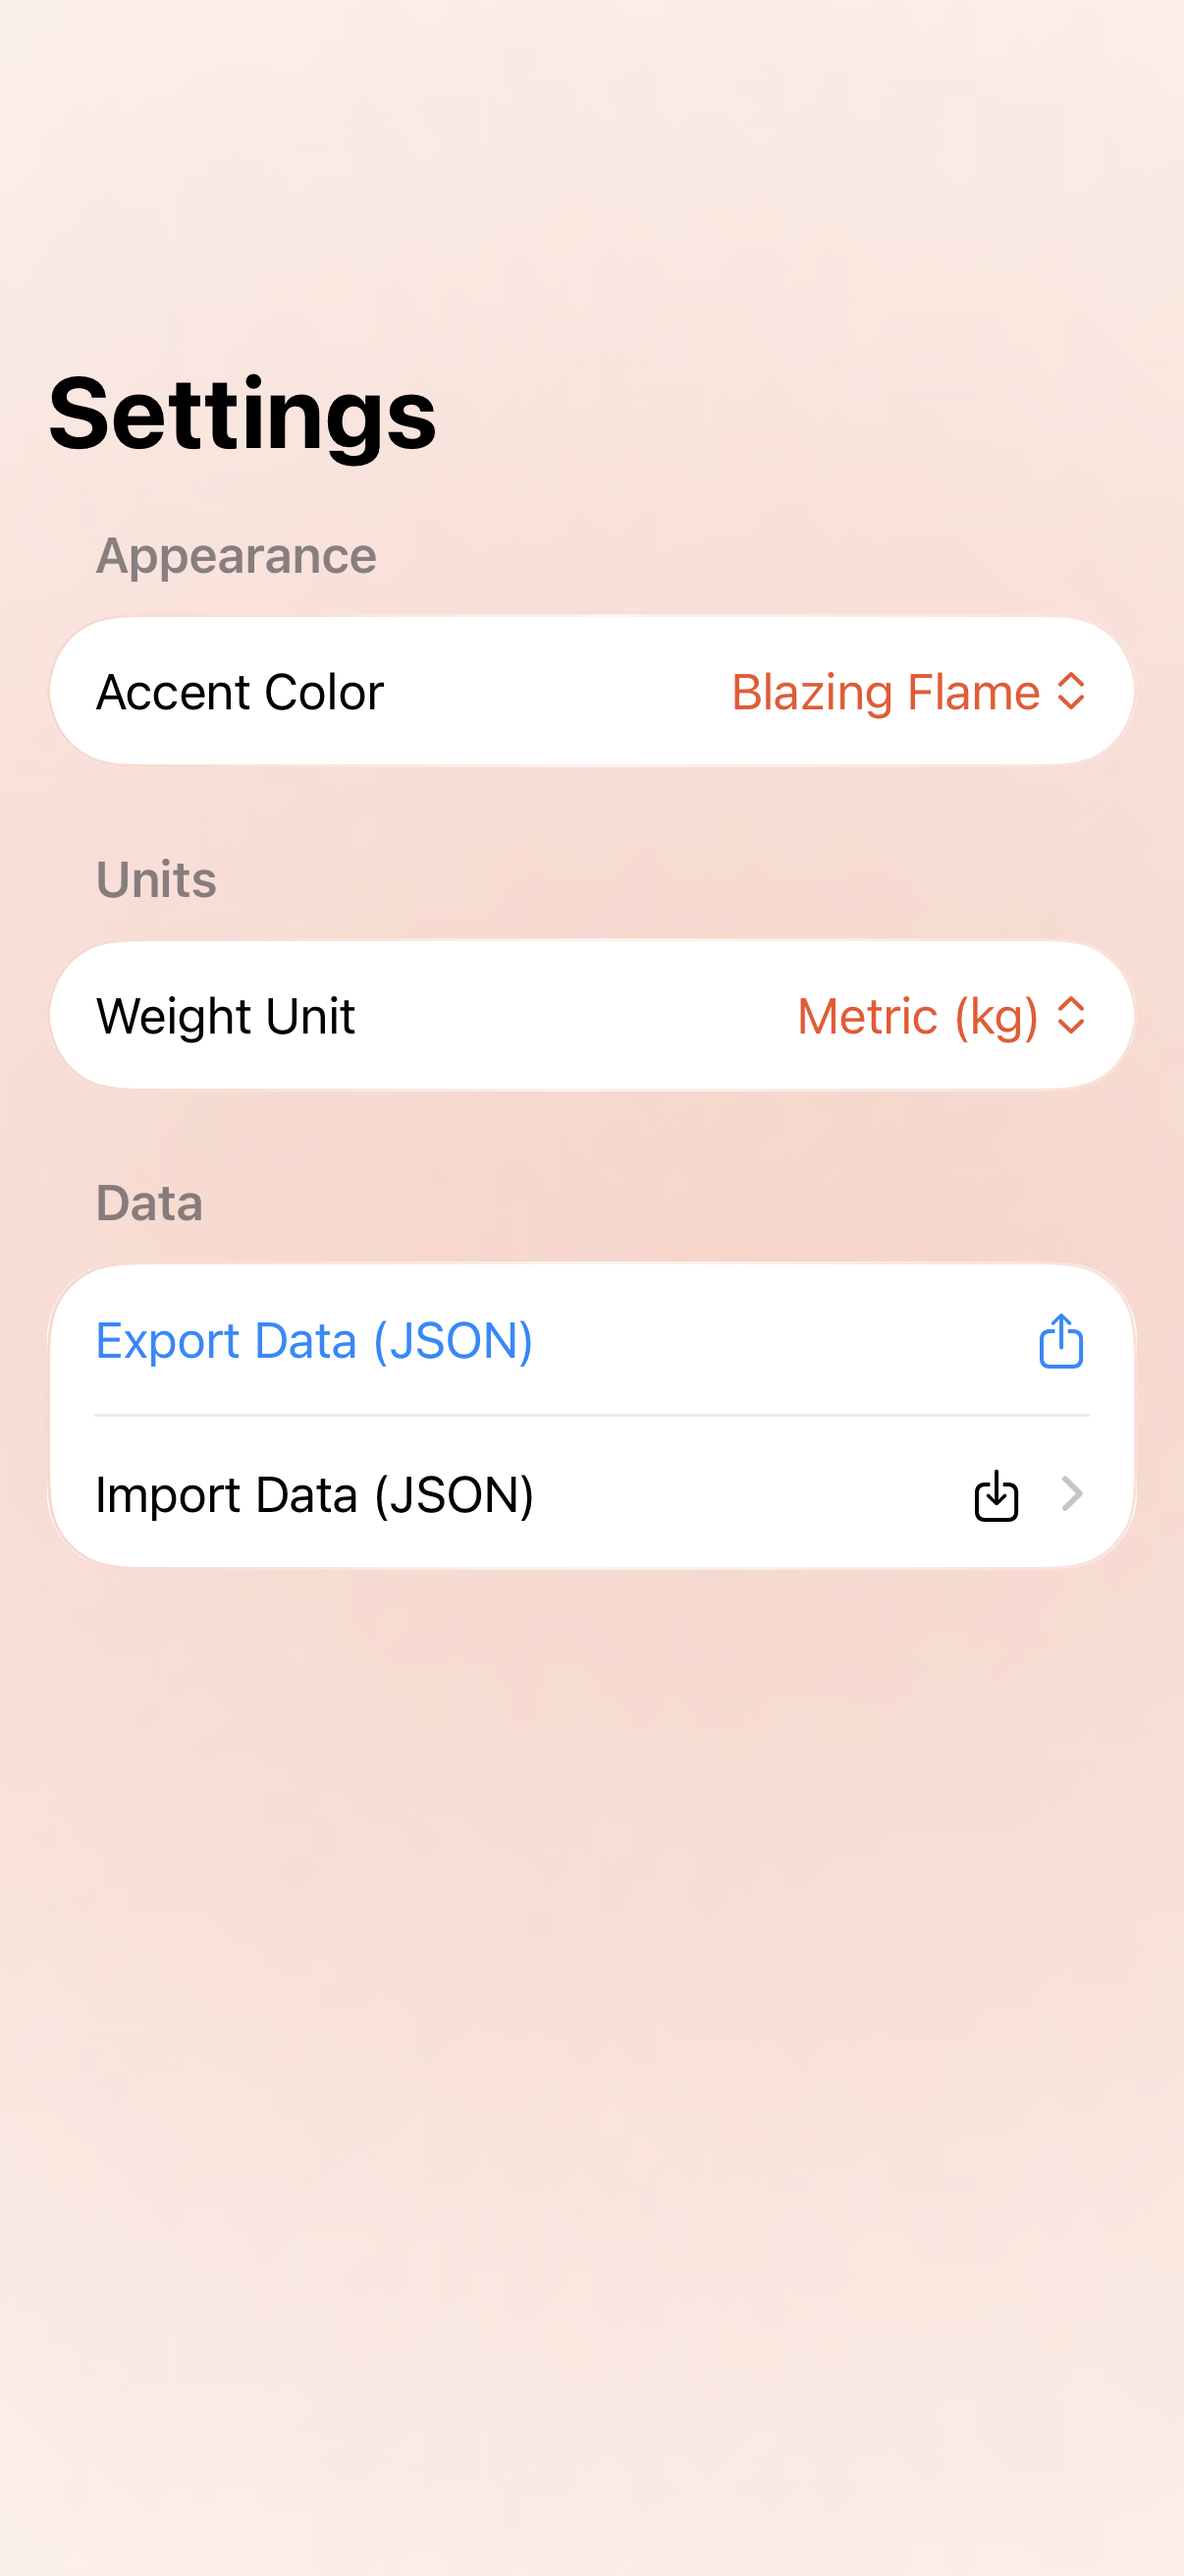
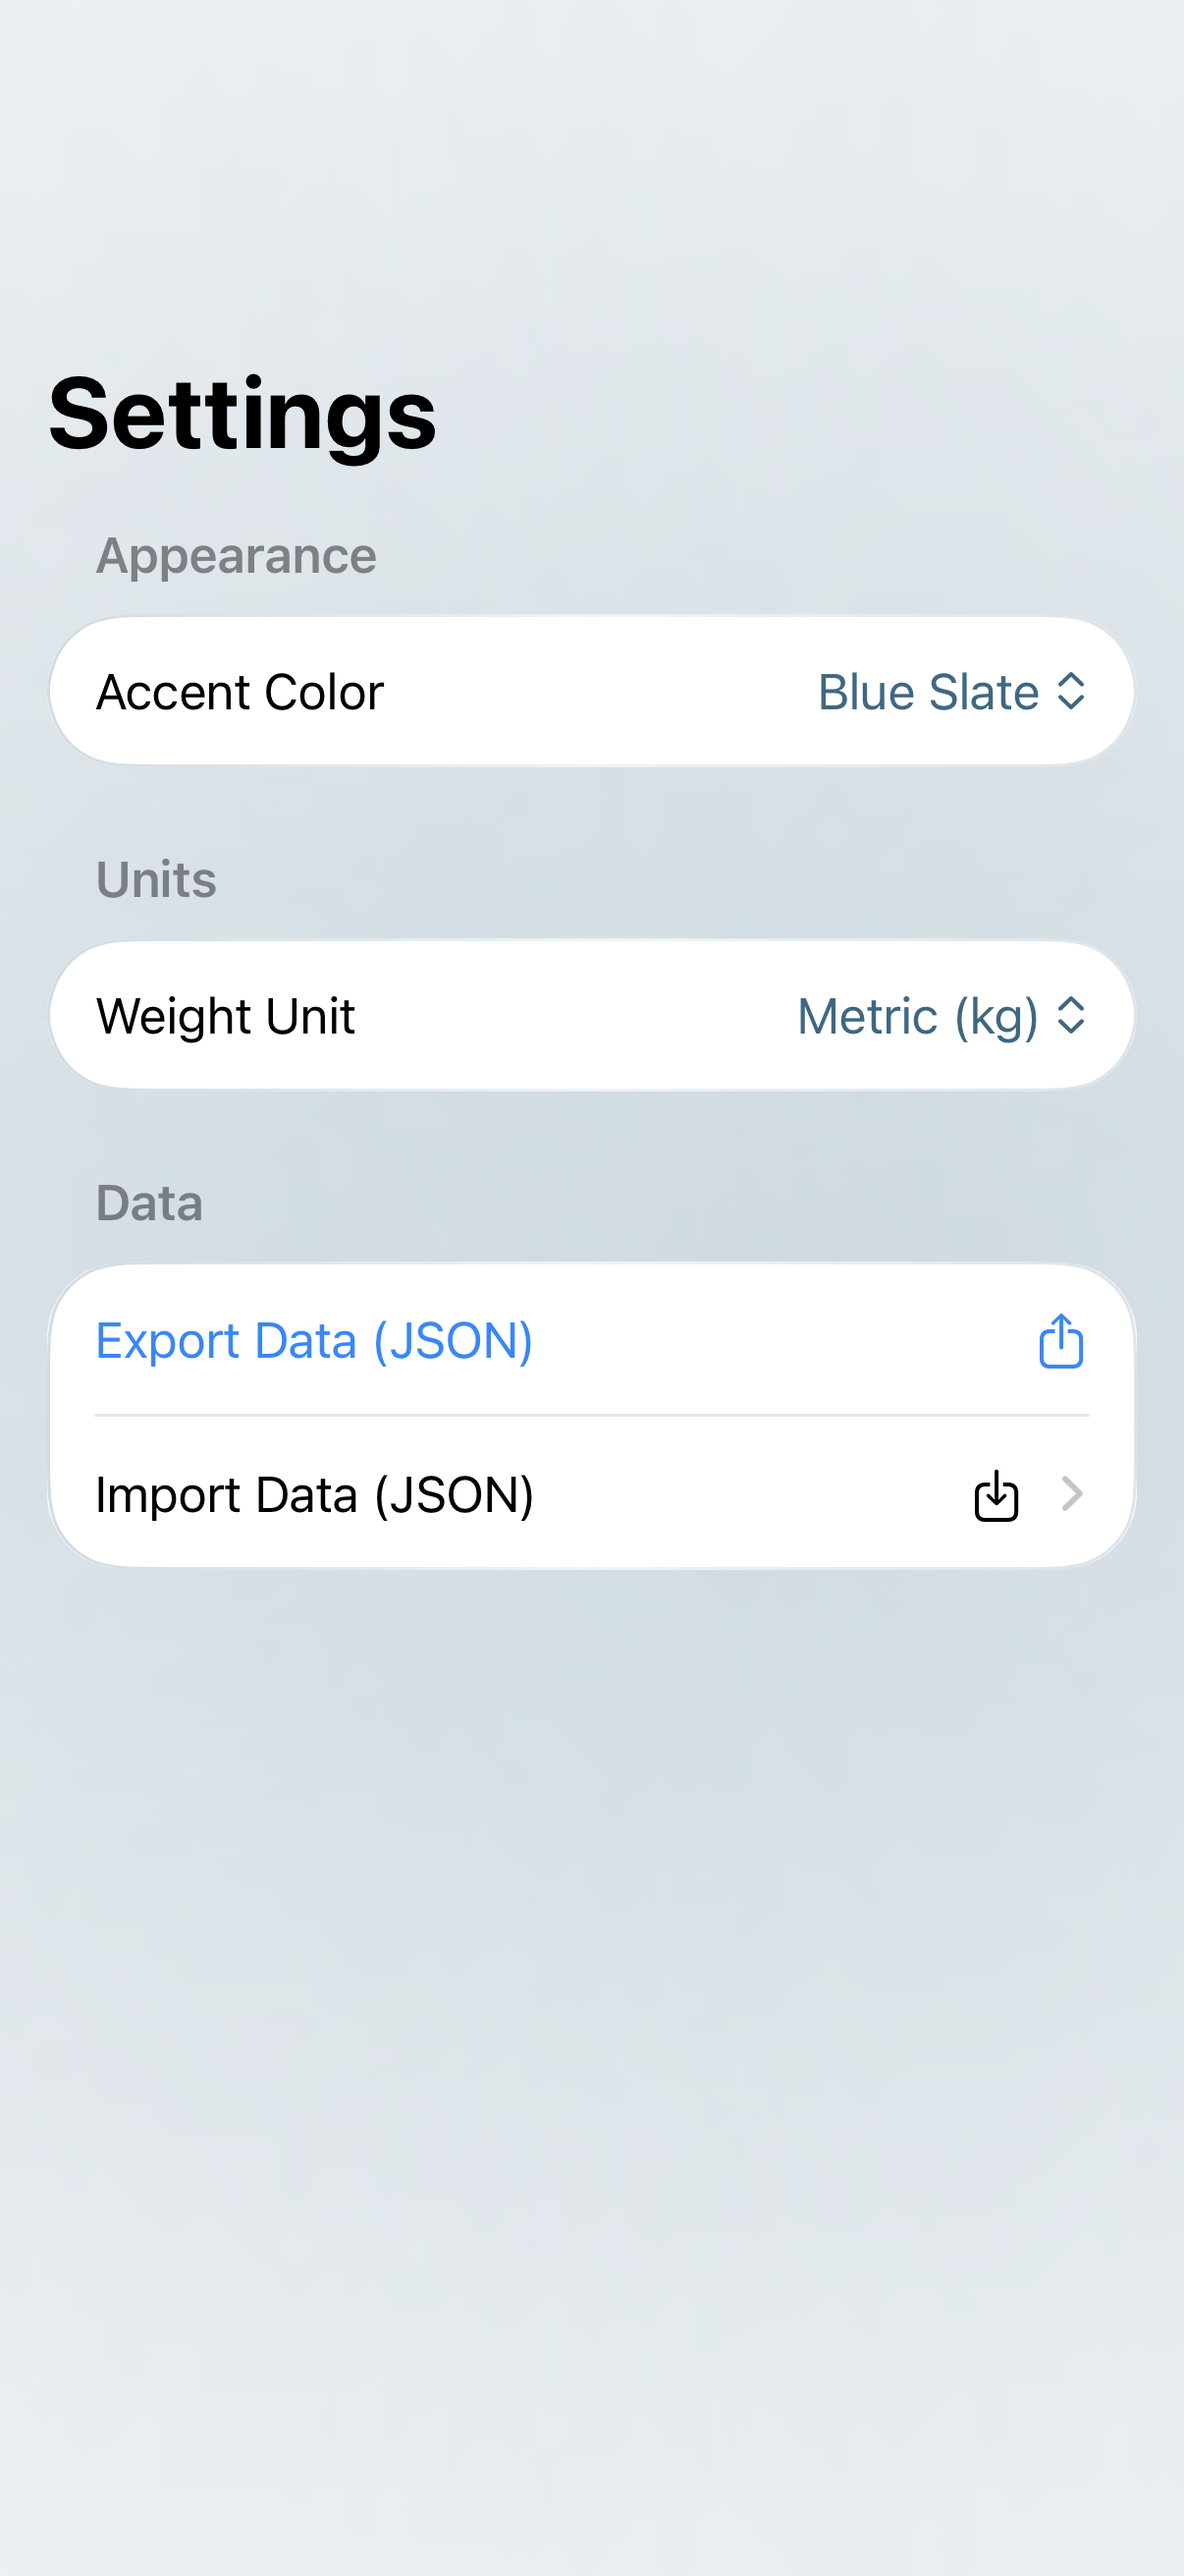
Refresh native settings picker styles when the accent changes

diff --git a/Workoutes/WorkoutesTests/ThemeColorTests.swift b/Workoutes/WorkoutesTests/ThemeColorTests.swift
@@ -1,10 +1,68 @@
 import SwiftUI
+import SwiftData
 import UIKit
 import XCTest
 @testable import Workoutes
 
 @MainActor
 final class ThemeColorTests: XCTestCase {
+    func testVisibleSettingsPickerLabelsFollowEveryAccentChange() async throws {
+        let defaults = UserDefaults.standard
+        let previous = defaults.object(forKey: "appAccentColor")
+        defer {
+            if let previous { defaults.set(previous, forKey: "appAccentColor") }
+            else { defaults.removeObject(forKey: "appAccentColor") }
+        }
+        defaults.set(ThemeColor.orange.rawValue, forKey: "appAccentColor")
+        let container = try ModelContainer(for: Workout.self, WorkoutExercise.self, Tag.self,
+                                           configurations: ModelConfiguration(isStoredInMemoryOnly: true))
+        let scene = try XCTUnwrap(UIApplication.shared.connectedScenes.first as? UIWindowScene)
+        let window = UIWindow(windowScene: scene)
+        window.rootViewController = UIHostingController(rootView: SettingsView()
+            .environment(\.dynamicTypeSize, .large).modelContainer(container))
+        window.overrideUserInterfaceStyle = .light
+        window.makeKeyAndVisible()
+        defer { window.isHidden = true }
+        try await Task.sleep(for: .milliseconds(300))
+        // Reuse the same visible Settings screen, reproducing the cached orange label.
+        for theme in ThemeColor.allCases {
+            defaults.set(theme.rawValue, forKey: "appAccentColor")
+            try await Task.sleep(for: .milliseconds(300))
+            window.layoutIfNeeded()
+            let image = UIGraphicsImageRenderer(bounds: window.bounds).image { _ in
+                window.drawHierarchy(in: window.bounds, afterScreenUpdates: true)
+            }
+            let cgImage = try XCTUnwrap(image.cgImage)
+            let width = cgImage.width
+            let height = cgImage.height
+            var pixels = [UInt8](repeating: 0, count: width * height * 4)
+            let context = try XCTUnwrap(CGContext(data: &pixels, width: width, height: height,
+                                                 bitsPerComponent: 8, bytesPerRow: width * 4,
+                                                 space: CGColorSpace(name: CGColorSpace.sRGB)!,
+                                                 bitmapInfo: CGImageAlphaInfo.premultipliedLast.rawValue | CGBitmapInfo.byteOrder32Big.rawValue))
+            context.draw(cgImage, in: CGRect(x: 0, y: 0, width: width, height: height))
+            let rgb = try XCTUnwrap(UInt32(theme.hex, radix: 16))
+            let target = [Int(rgb >> 16), Int((rgb >> 8) & 255), Int(rgb & 255)]
+            // These bands contain the two menu pickers; the gradient and faint border
+            // cannot match the solid accent used by the selected value and arrows.
+            for band in [140.0...220.0, 250.0...330.0] {
+                var matches = 0
+                let top = Double(window.safeAreaInsets.top)
+                let scale = Double(image.scale)
+                let start = max(0, Int((top + band.lowerBound) * scale))
+                let end = min(height, Int((top + band.upperBound) * scale))
+                for y in start..<end {
+                    for x in Int(Double(width) * 0.55)..<Int(Double(width) * 0.95) {
+                        let index = (y * width + x) * 4
+                        if (0..<3).allSatisfy({ abs(Int(pixels[index + $0]) - target[$0]) <= 2 }) { matches += 1 }
+                    }
+                }
+                XCTAssertGreaterThan(matches, 150, "Picker label did not update to \(theme.name)")
+            }
+            try XCTUnwrap(image.pngData()).write(to: URL(fileURLWithPath: "/tmp/workoutes-settings-live-accent-\(theme.rawValue).png"))
+        }
+    }
+
     func testPaletteMatchesProvidedColorsInLightAndDarkMode() {
         let expected = ["326884", "6155F5", "D2F1E4", "42213D", "F15025"]
         XCTAssertEqual(ThemeColor.allCases.map(\.hex), expected)

diff --git a/Workoutes/Workoutes/SettingsView.swift b/Workoutes/Workoutes/SettingsView.swift
@@ -44,6 +44,8 @@ struct SettingsView: View {
                     }
                     .foregroundStyle(accentColor)
                     .tint(accentColor)
+                    // The native menu picker caches its selected-label style.
+                    .id(ThemeColor.resolve(accentColorRawValue))
                     .subtleFormRowBorder()
                 }
                 Section("Units") {
@@ -56,6 +58,7 @@ struct SettingsView: View {
                     }
                     .foregroundStyle(accentColor)
                     .tint(accentColor)
+                    .id(ThemeColor.resolve(accentColorRawValue))
                     .subtleFormRowBorder()
                 }
                 Section("Data") {
